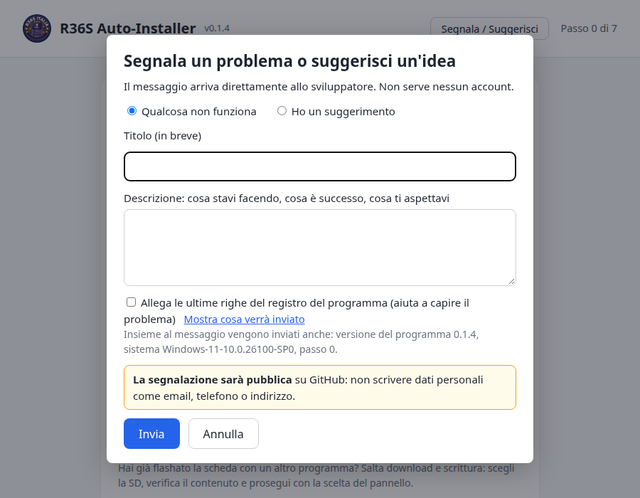
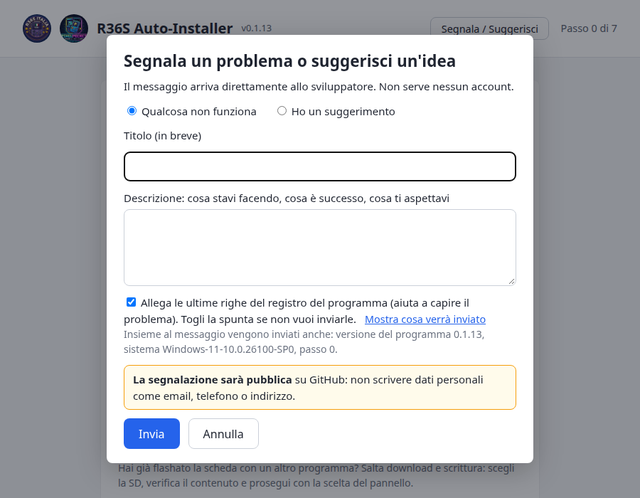
README: il registro nelle segnalazioni è allegato di default
Corretto il testo e aggiornato lo screenshot del modulo.

Changed region(s): [[0.0938, 0.0301, 0.4062, 0.0904], [0.2812, 0.6325, 0.7812, 0.6928], [0.1875, 0.6024, 0.2188, 0.6325]]

diff --git a/README.md b/README.md
@@ -208,7 +208,7 @@ In qualunque momento puoi premere **Segnala / Suggerisci** in alto a destra: si 
 ![Segnala un problema o suggerisci un'idea](11-segnala.png)
 
 - Scegli se **qualcosa non funziona** o se **hai un suggerimento**, scrivi un titolo breve e una descrizione e premi **Invia**. Non serve nessun account.
-- Per i problemi puoi allegare le ultime righe del registro del programma: con **Mostra cosa verrà inviato** vedi esattamente cosa parte (il nome del tuo utente nei percorsi viene tolto). Il registro non viene mai inviato se non spunti la casella.
+- Per i problemi vengono allegate anche le ultime righe del registro del programma, che aiutano a capire cosa è andato storto: con **Mostra cosa verrà inviato** vedi esattamente cosa parte (il nome del tuo utente nei percorsi viene tolto). Se non vuoi inviarle, togli la spunta dalla casella.
 - Vengono inviati anche la versione del programma, la versione di Windows e il passo in cui ti trovi.
 - La segnalazione diventa **pubblica** su GitHub: non scrivere email, numeri di telefono o altri dati personali. Dopo l'invio trovi il link per seguirla.
 

diff --git a/README.en.md b/README.en.md
@@ -208,7 +208,7 @@ At any time you can press **Report / Suggest** at the top right: a form opens ov
 ![Report a problem or suggest an idea](en/11-segnala.png)
 
 - Choose whether **something doesn't work** or **you have a suggestion**, write a short title and a description and press **Send**. No account needed.
-- For problems you can attach the last lines of the program log: **Show what will be sent** shows you exactly what goes out (your user name is removed from file paths). The log is never sent unless you tick the box.
+- For problems the last lines of the program log are attached too, as they help understand what went wrong: **Show what will be sent** shows you exactly what goes out (your user name is removed from file paths). If you do not want to send them, untick the box.
 - The program version, the Windows version and the step you are on are sent too.
 - The report becomes **public** on GitHub: do not write emails, phone numbers or other personal data. After sending you get a link to follow it.
 
